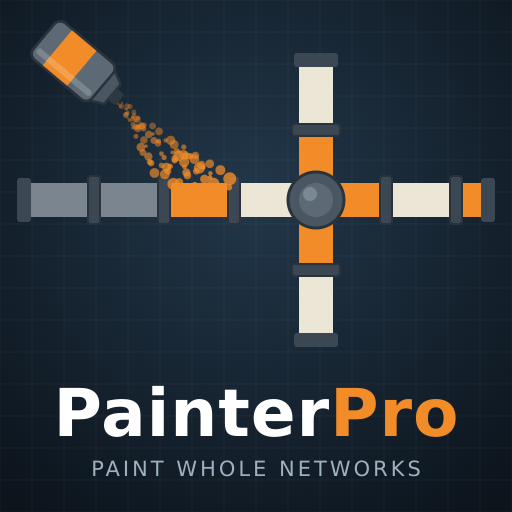
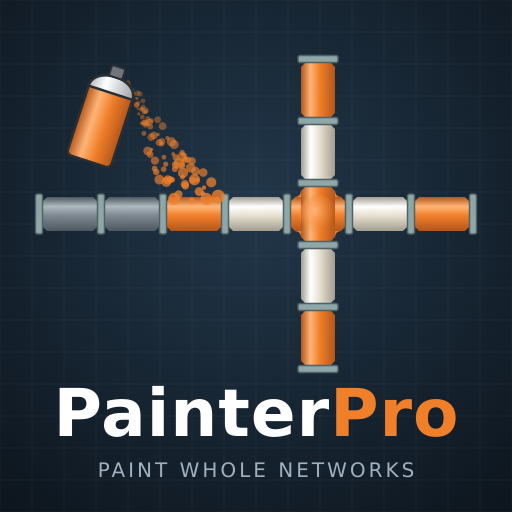
redraw Workshop art to match the game, add 16:9 in-game preview
art/make_art.py generates both SVGs: full-length pipe pieces with collar
rings, a one-cell cross junction painted as part of the checker, and a
spray can modelled on the hotbar icon. Preview.png is now 1024x576 to
fit the in-game Workshop panel without stretching; thumb.png stays
square for Steam.

Changed region(s): [[0.0312, 0.0312, 0.9688, 0.75], [0.1562, 0.875, 0.8125, 0.9375]]

diff --git a/art/make_art.py b/art/make_art.py
@@ -1,0 +1,191 @@
+#!/usr/bin/env python3
+"""Generate the Workshop thumbnail and in-game preview SVGs.
+
+    python3 art/make_art.py
+    inkscape art/thumb.svg   --export-type=png --export-filename=PainterPro/About/thumb.png   -w 512  -h 512
+    inkscape art/preview.svg --export-type=png --export-filename=PainterPro/About/Preview.png -w 1024 -h 576
+
+thumb.png is the Steam Workshop thumbnail (square, must stay under 1 MB).
+Preview.png is shown 16:9 in the in-game Workshop Mods panel.
+"""
+import random
+from pathlib import Path
+
+HERE = Path(__file__).parent
+
+# Paint colours: (dark edge, base, highlight)
+ORANGE = ("#B4561A", "#F07F2A", "#FFB477")
+CREAM = ("#A39D90", "#E6E0D0", "#FFFFFF")
+GREY = ("#4E5860", "#7D8890", "#AEB8BF")
+RING = "#8FA7A8"
+RING_EDGE = "#4F6264"
+
+CELL = 62   # one straight pipe piece, ring to ring
+BORE = 34   # pipe diameter
+CHAMFER = 5
+
+
+def gradients():
+    out = []
+    for name, (dark, base, light) in (("o", ORANGE), ("c", CREAM), ("g", GREY)):
+        # h = horizontal pipe (shade across y), v = vertical pipe (shade across x)
+        for axis, (x2, y2) in (("h", (0, 1)), ("v", (1, 0))):
+            out.append(
+                f'<linearGradient id="{name}{axis}" x1="0" y1="0" x2="{x2}" y2="{y2}">'
+                f'<stop offset="0" stop-color="{dark}"/><stop offset="0.28" stop-color="{light}"/>'
+                f'<stop offset="0.55" stop-color="{base}"/><stop offset="1" stop-color="{dark}"/>'
+                "</linearGradient>")
+    return "".join(out)
+
+
+def tube(x, y, length, horizontal, paint):
+    """A pipe body with chamfered ends; (x, y) is the start of its centreline."""
+    r, c = BORE / 2, CHAMFER
+    if horizontal:
+        pts = [(x, y - r + c), (x + c, y - r), (x + length - c, y - r), (x + length, y - r + c),
+               (x + length, y + r - c), (x + length - c, y + r), (x + c, y + r), (x, y + r - c)]
+        fill = f"url(#{paint}h)"
+    else:
+        pts = [(x - r + c, y), (x - r, y + c), (x - r, y + length - c), (x - r + c, y + length),
+               (x + r - c, y + length), (x + r, y + length - c), (x + r, y + c), (x + r - c, y)]
+        fill = f"url(#{paint}v)"
+    d = " ".join(f"{px:.1f},{py:.1f}" for px, py in pts)
+    return f'<polygon points="{d}" fill="{fill}"/>'
+
+
+def ring(x, y, horizontal):
+    """The grey-teal collar where two pieces meet."""
+    if horizontal:
+        return f'<rect x="{x - 3.5:.1f}" y="{y - BORE / 2 - 3:.1f}" width="7" height="{BORE + 6}" rx="2" fill="{RING}" stroke="{RING_EDGE}" stroke-width="1.5"/>'
+    return f'<rect x="{x - BORE / 2 - 3:.1f}" y="{y - 3.5:.1f}" width="{BORE + 6}" height="7" rx="2" fill="{RING}" stroke="{RING_EDGE}" stroke-width="1.5"/>'
+
+
+def straight_h(cx, y, paint):
+    return tube(cx - CELL / 2 + 3, y, CELL - 6, True, paint)
+
+
+def straight_v(x, cy, paint):
+    return tube(x, cy - CELL / 2 + 3, CELL - 6, False, paint)
+
+
+def cross(cx, cy, paint):
+    """Four-way junction: one cell, rounded where the arms meet."""
+    half = CELL / 2 - 3
+    r = BORE / 2
+    parts = [tube(cx - half, cy, 2 * half, True, paint),
+             tube(cx, cy - half, 2 * half, False, paint)]
+    # soften the inside corners so the arms read as one cast piece
+    for sx in (-1, 1):
+        for sy in (-1, 1):
+            x0, y0 = cx + sx * r, cy + sy * r
+            parts.append(
+                f'<path d="M{x0:.1f},{y0 + sy * 7:.1f} Q{x0:.1f},{y0:.1f} {x0 + sx * 7:.1f},{y0:.1f} L{x0:.1f},{y0:.1f} Z" '
+                f'fill="{dict(o=ORANGE, c=CREAM, g=GREY)[paint][1]}"/>')
+    # rounded centre where the four arms are cast together
+    _, base, light = dict(o=ORANGE, c=CREAM, g=GREY)[paint]
+    parts.append(f'<radialGradient id="hub{paint}" cx="0.4" cy="0.4" r="0.6"><stop offset="0" stop-color="{light}"/>'
+                 f'<stop offset="1" stop-color="{base}" stop-opacity="0"/></radialGradient>'
+                 f'<circle cx="{cx:.1f}" cy="{cy:.1f}" r="{r * 1.1:.1f}" fill="url(#hub{paint})"/>')
+    return "".join(parts)
+
+
+def network(ox, oy):
+    """Seven cells across with a junction in the fifth, two cells up and down.
+
+    The sprayed piece is cell 2; colours alternate by step count from it,
+    the junction included, exactly as the mod paints. Cells 0-1 are not yet
+    painted.
+    """
+    y = oy
+    xs = [ox + CELL / 2 + i * CELL for i in range(7)]
+    jx = xs[4]
+    row = ["g", "g", "o", "c", None, "c", "o"]
+    out = []
+    for cx, paint in zip(xs, row):
+        if paint:
+            out.append(straight_h(cx, y, paint))
+    out.append(cross(jx, y, "o"))
+    for step, paint in ((1, "c"), (2, "o")):
+        out.append(straight_v(jx, y - step * CELL, paint))
+        out.append(straight_v(jx, y + step * CELL, paint))
+    left = ox
+    for i in range(8):
+        out.append(ring(left + i * CELL, y, True))
+    for step in (0.5, 1.5, 2.5):
+        out.append(ring(jx, y - step * CELL, False))
+        out.append(ring(jx, y + step * CELL, False))
+    sprayed = (xs[2], y)
+    return "".join(out), sprayed
+
+
+def spray_can(x, y, angle):
+    """Spray can as in the hotbar icon: coloured body, white dome, grey button.
+
+    (x, y) is the spray button on top of the dome; the can is drawn upright and rotated by angle.
+    """
+    dark, base, light = ORANGE
+    return f'''<g transform="translate({x:.1f},{y:.1f}) rotate({angle})">
+  <defs><linearGradient id="canbody" x1="0" y1="0" x2="1" y2="0">
+    <stop offset="0" stop-color="{dark}"/><stop offset="0.3" stop-color="{light}"/>
+    <stop offset="0.6" stop-color="{base}"/><stop offset="1" stop-color="{dark}"/></linearGradient>
+  <linearGradient id="cancap" x1="0" y1="0" x2="1" y2="0">
+    <stop offset="0" stop-color="#B9BEC2"/><stop offset="0.35" stop-color="#FFFFFF"/><stop offset="1" stop-color="#9DA3A8"/></linearGradient></defs>
+  <rect x="-30" y="18" width="46" height="76" rx="5" fill="url(#canbody)" stroke="#2A2F33" stroke-width="2.5"/>
+  <path d="M-30,22 C-30,0 16,0 16,22 Z" fill="url(#cancap)" stroke="#2A2F33" stroke-width="2.5"/>
+  <rect x="-14" y="-5" width="14" height="11" rx="2" fill="#6E767C" stroke="#2A2F33" stroke-width="2"/>
+</g>'''
+
+
+def mist(nx, ny, tx, ty, colour):
+    rng = random.Random(7)
+    out = []
+    for _ in range(90):
+        t = rng.random() ** 0.7
+        ex, ey = tx + rng.uniform(-30, 30), ty - 12 + rng.uniform(-8, 8)
+        px = nx + (ex - nx) * t + rng.uniform(-6, 6) * t
+        py = ny + (ey - ny) * t + rng.uniform(-6, 6) * t
+        r = rng.uniform(1.5, 4.5) * (0.5 + t)
+        out.append(f'<circle cx="{px:.1f}" cy="{py:.1f}" r="{r:.1f}" fill="{colour}" opacity="{0.25 + 0.55 * t:.2f}"/>')
+    return "".join(out)
+
+
+def scene(ox, oy):
+    pipes, (sx, sy) = network(ox, oy)
+    nozzle = (sx - 70, sy - 140)
+    return (pipes + mist(*nozzle, sx, sy, ORANGE[1])
+            + spray_can(*nozzle, 18))
+
+
+def background(w, h, cx, cy):
+    grid = "".join(
+        f'<line x1="{i}" y1="0" x2="{i}" y2="{h}" stroke="#fff" stroke-opacity="0.04"/>' for i in range(0, w + 1, 32))
+    grid += "".join(
+        f'<line x1="0" y1="{i}" x2="{w}" y2="{i}" stroke="#fff" stroke-opacity="0.04"/>' for i in range(0, h + 1, 32))
+    return (f'<radialGradient id="bg" cx="{cx}" cy="{cy}" r="80%"><stop offset="0" stop-color="#22374A"/>'
+            f'<stop offset="1" stop-color="#0C141C"/></radialGradient>', f'<rect width="{w}" height="{h}" fill="url(#bg)"/>{grid}')
+
+
+def title(x, y, size):
+    return (f'<text x="{x}" y="{y}" text-anchor="middle" font-family="DejaVu Sans" font-weight="bold" '
+            f'font-size="{size}" fill="#FFFFFF" letter-spacing="1">Painter<tspan fill="{ORANGE[1]}">Pro</tspan></text>'
+            f'<text x="{x}" y="{y + size * 0.62:.0f}" text-anchor="middle" font-family="DejaVu Sans" '
+            f'font-size="{size * 0.31:.0f}" fill="#9FB0BF" letter-spacing="3">PAINT WHOLE NETWORKS</text>')
+
+
+def svg(w, h, body, bg_centre):
+    grad, bg = background(w, h, *bg_centre)
+    return (f'<svg xmlns="http://www.w3.org/2000/svg" width="{w}" height="{h}" viewBox="0 0 {w} {h}">'
+            f'<defs>{gradients()}{grad}</defs>{bg}{body}</svg>\n')
+
+
+def main():
+    network_width = 7 * CELL
+    thumb = svg(512, 512, scene((512 - network_width) / 2, 214) + title(256, 436, 66), ("50%", "40%"))
+    (HERE / "thumb.svg").write_text(thumb)
+
+    preview = svg(1024, 576, scene(36, 292) + title(760, 290, 68), ("33%", "50%"))
+    (HERE / "preview.svg").write_text(preview)
+
+
+if __name__ == "__main__":
+    main()
